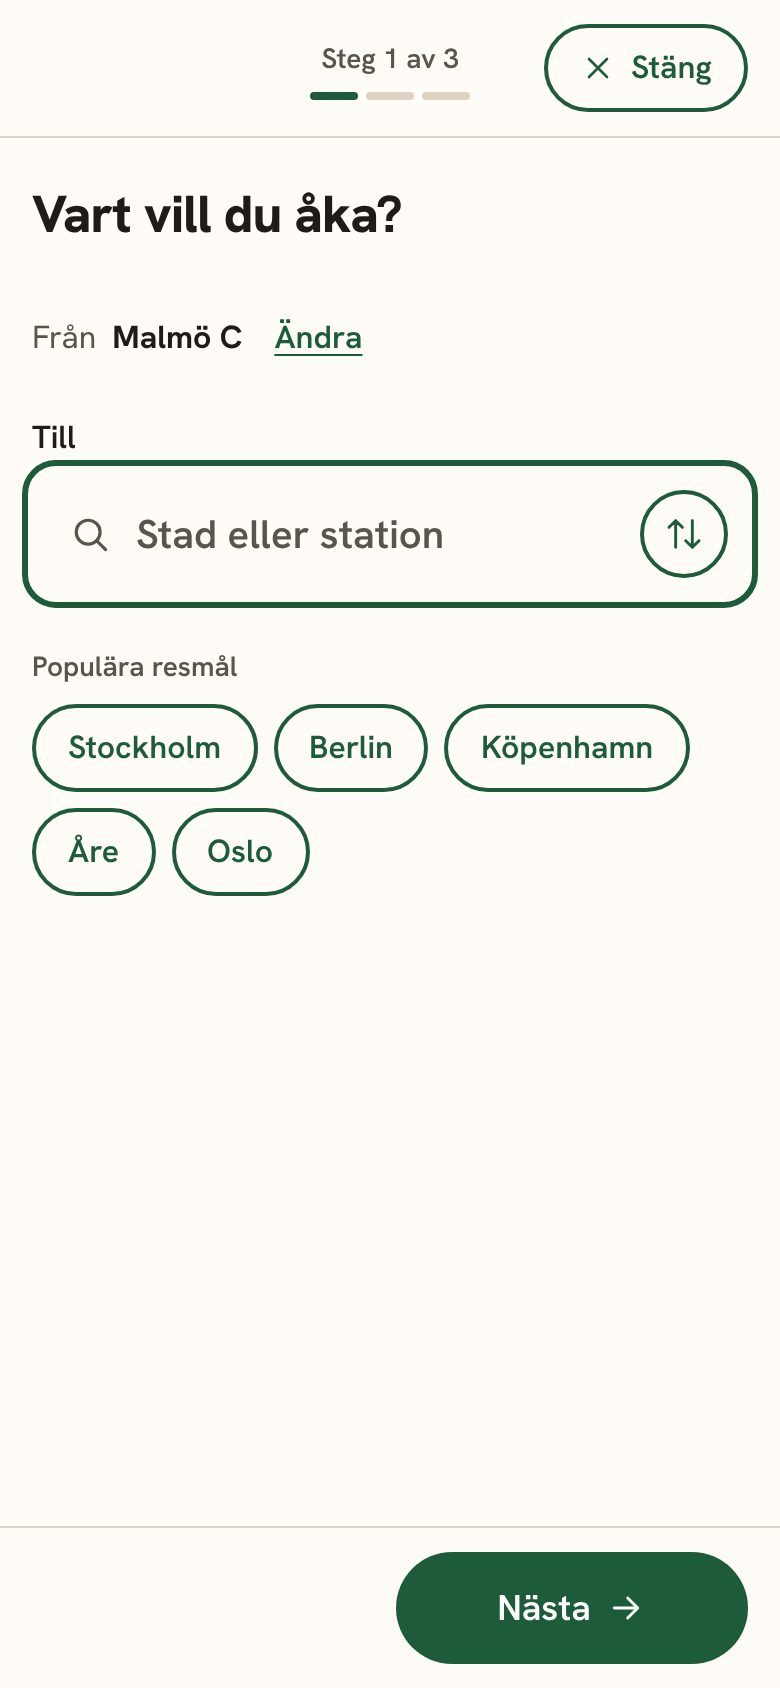
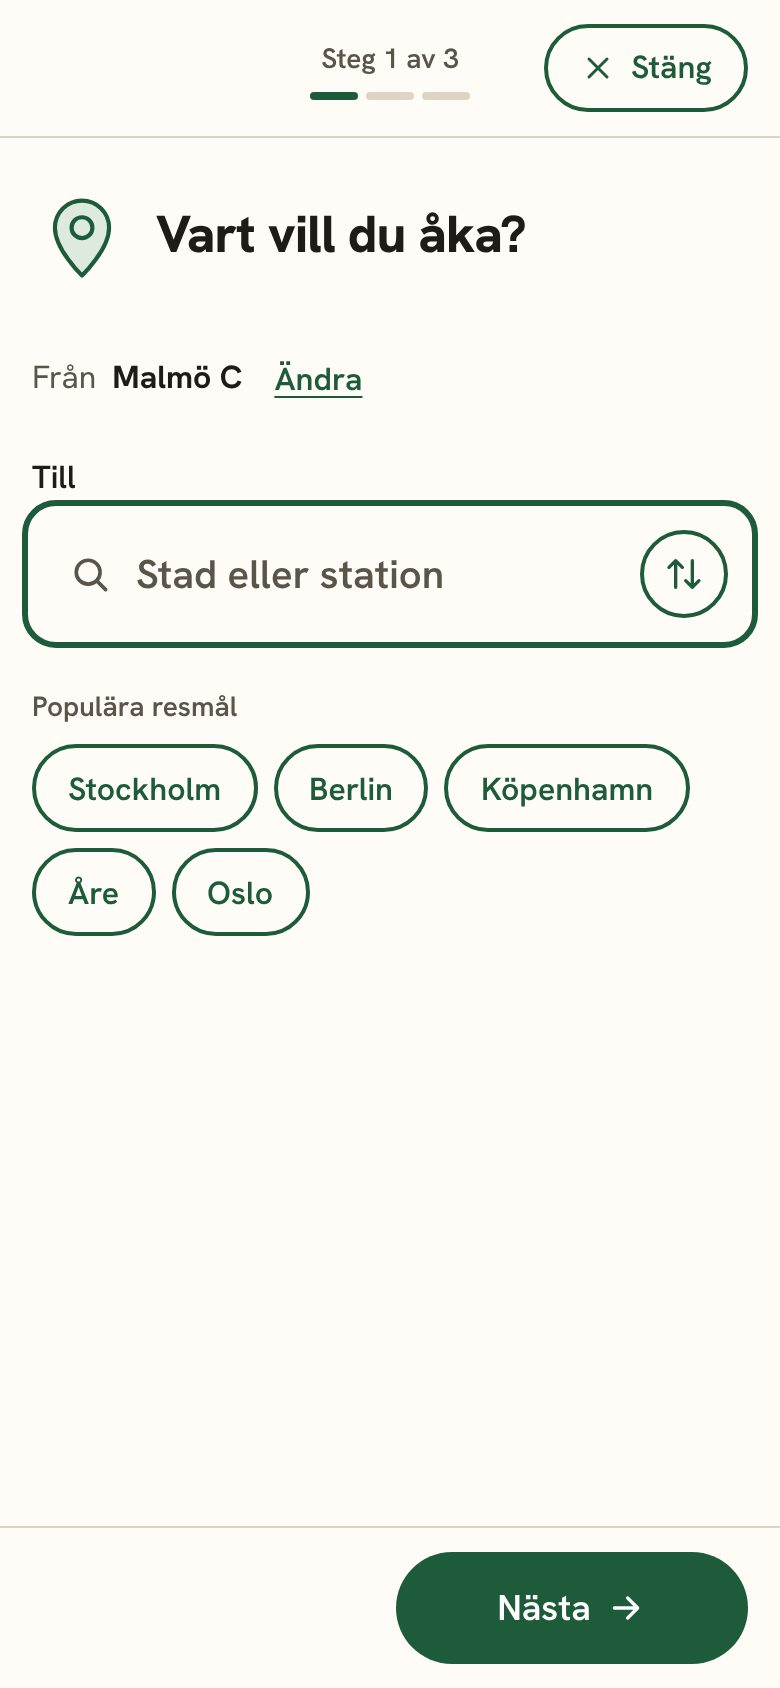
Snälltåget-konceptet: samma symbolstil på hela sidan
Trafikraden, avgångstavlan (måne för nattåg), Res billigare, bokningens
steg (plats, kalender, resenärer), vuxna och barn samt bockarna har nu
samma tvåfärgade symboler som Inför resan. Gränssnittsikoner får 2 px
linje. Agenten har regeln för symbolstilen.

Claude-Session: https://claude.ai/code/session_013ZhM72pgn3sRt9xC7H7Nq2

Changed region(s): [[0.0308, 0.0924, 0.9846, 0.5545]]

diff --git a/koncept/snalltaget/index.html b/koncept/snalltaget/index.html
@@ -38,7 +38,7 @@
        Planerat banarbete hämtat från snalltaget.se/trafikinformation 23 nov 2026. -->
   <aside class="traffic" id="trafikinfo" aria-label="Trafikinformation">
     <div class="container traffic__inner">
-      <svg class="icon traffic__icon" aria-hidden="true" viewBox="0 0 24 24"><path d="M12 3 2 20h20L12 3z"/><path d="M12 10v4M12 17v.01"/></svg>
+      <svg class="sym traffic__icon" aria-hidden="true" viewBox="0 0 48 48" fill="none" stroke-width="2" stroke-linecap="round" stroke-linejoin="round"><path class="f" d="M24 7l19 33H5z"/><path d="M24 19v9"/><circle class="d" cx="24" cy="33.5" r="2"/></svg>
       <p class="traffic__text">
         <strong>5 december:</strong> tåg 3943 går via västkusten på grund av banarbete.
         <a href="https://www.snalltaget.se/trafikinformation">All trafikinformation</a>
@@ -155,35 +155,35 @@
             <tr>
               <td class="board__time"><time>15.25</time></td>
               <td class="board__route"><span class="board__to">Östersund C</span><span class="board__from">från Malmö C, framme 06.05</span></td>
-              <td class="board__type"><span class="board__badge">Nattåg</span></td>
+              <td class="board__type"><span class="board__badge"><svg class="sym board__sym" aria-hidden="true" viewBox="0 0 48 48" fill="none" stroke-width="2" stroke-linecap="round" stroke-linejoin="round"><path class="f" d="M29 7a17 17 0 1 0 12 27A15 15 0 0 1 29 7z"/><path d="M38 9v5M35.5 11.5h5"/></svg>Nattåg</span></td>
               <td class="board__days">Från 16 dec<span class="board__note">Tåg 3902. Avgångsdagar varierar.</span></td>
               <td class="board__action"><a class="board__book" href="#boka" data-open-booking data-from="Malmö C" data-to="Östersund C">Boka<span class="sr-only"> Malmö C till Östersund C 15.25</span></a></td>
             </tr>
             <tr>
               <td class="board__time"><time>16.25</time></td>
               <td class="board__route"><span class="board__to">Berlin Hbf</span><span class="board__from">från Stockholm C, framme 07.51</span></td>
-              <td class="board__type"><span class="board__badge">Nattåg</span></td>
+              <td class="board__type"><span class="board__badge"><svg class="sym board__sym" aria-hidden="true" viewBox="0 0 48 48" fill="none" stroke-width="2" stroke-linecap="round" stroke-linejoin="round"><path class="f" d="M29 7a17 17 0 1 0 12 27A15 15 0 0 1 29 7z"/><path d="M38 9v5M35.5 11.5h5"/></svg>Nattåg</span></td>
               <td class="board__days">Ons–fre och sön<span class="board__note">Till 11 dec, sedan fler datum i december.</span></td>
               <td class="board__action"><a class="board__book" href="#boka" data-open-booking data-from="Stockholm C" data-to="Berlin Hbf">Boka<span class="sr-only"> Stockholm C till Berlin Hbf 16.25</span></a></td>
             </tr>
             <tr>
               <td class="board__time"><time>16.35</time></td>
               <td class="board__route"><span class="board__to">Storlien</span><span class="board__from">från Malmö C, framme 08.55</span></td>
-              <td class="board__type"><span class="board__badge">Nattåg</span></td>
+              <td class="board__type"><span class="board__badge"><svg class="sym board__sym" aria-hidden="true" viewBox="0 0 48 48" fill="none" stroke-width="2" stroke-linecap="round" stroke-linejoin="round"><path class="f" d="M29 7a17 17 0 1 0 12 27A15 15 0 0 1 29 7z"/><path d="M38 9v5M35.5 11.5h5"/></svg>Nattåg</span></td>
               <td class="board__days">Från 16 dec<span class="board__note">Tåg 3900. Stannar i Östersund, Åre och Duved.</span></td>
               <td class="board__action"><a class="board__book" href="#boka" data-open-booking data-from="Malmö C" data-to="Storlien">Boka<span class="sr-only"> Malmö C till Storlien 16.35</span></a></td>
             </tr>
             <tr>
               <td class="board__time"><time>20.52</time></td>
               <td class="board__route"><span class="board__to">Stockholm C</span><span class="board__from">från Berlin Hbf, framme 13.17</span></td>
-              <td class="board__type"><span class="board__badge">Nattåg</span></td>
+              <td class="board__type"><span class="board__badge"><svg class="sym board__sym" aria-hidden="true" viewBox="0 0 48 48" fill="none" stroke-width="2" stroke-linecap="round" stroke-linejoin="round"><path class="f" d="M29 7a17 17 0 1 0 12 27A15 15 0 0 1 29 7z"/><path d="M38 9v5M35.5 11.5h5"/></svg>Nattåg</span></td>
               <td class="board__days">Mån, tor, fre och sön<span class="board__note">Till 11 dec, sedan fler datum i december.</span></td>
               <td class="board__action"><a class="board__book" href="#boka" data-open-booking data-from="Berlin Hbf" data-to="Stockholm C">Boka<span class="sr-only"> Berlin Hbf till Stockholm C 20.52</span></a></td>
             </tr>
             <tr>
               <td class="board__time"><time>21.55</time></td>
               <td class="board__route"><span class="board__to">Berlin Hbf</span><span class="board__from">från Malmö C, framme 07.51</span></td>
-              <td class="board__type"><span class="board__badge">Nattåg</span></td>
+              <td class="board__type"><span class="board__badge"><svg class="sym board__sym" aria-hidden="true" viewBox="0 0 48 48" fill="none" stroke-width="2" stroke-linecap="round" stroke-linejoin="round"><path class="f" d="M29 7a17 17 0 1 0 12 27A15 15 0 0 1 29 7z"/><path d="M38 9v5M35.5 11.5h5"/></svg>Nattåg</span></td>
               <td class="board__days">Ons–fre och sön<span class="board__note">Via Hamburg Hbf 05.05.</span></td>
               <td class="board__action"><a class="board__book" href="#boka" data-open-booking data-from="Malmö C" data-to="Berlin Hbf">Boka<span class="sr-only"> Malmö C till Berlin Hbf 21.55</span></a></td>
             </tr>
@@ -275,6 +275,7 @@
               <span class="deal__label">Upp till 80 %</span>
             </div>
             <div class="deal__body">
+              <svg class="sym deal__sym" aria-hidden="true" viewBox="0 0 48 48" fill="none" stroke-width="2" stroke-linecap="round" stroke-linejoin="round"><circle class="f" cx="24" cy="21" r="5.5"/><path class="f" d="M15 41v-2a9 9 0 0 1 18 0v2z"/></svg>
               <h3 class="deal__title"><a class="deal__link" href="https://www.snalltaget.se/komfortnivaer-prisklasser">Barn reser billigare</a></h3>
               <p>Barn under 16 år som reser med en vuxen, senior, ungdom eller student.</p>
             </div>
@@ -285,6 +286,7 @@
               <span class="deal__label">Specialpris</span>
             </div>
             <div class="deal__body">
+              <svg class="sym deal__sym" aria-hidden="true" viewBox="0 0 48 48" fill="none" stroke-width="2" stroke-linecap="round" stroke-linejoin="round"><path class="f" d="M8 24V10a2 2 0 0 1 2-2h14l16 16-16 16z"/><circle class="d" cx="16" cy="16" r="2.6"/></svg>
               <h3 class="deal__title"><a class="deal__link" href="https://www.snalltaget.se/nattag-till-berlin">Nattåg Malmö – Berlin</a></h3>
               <p>Sittplats, 2 nov – 17 dec. Biljetten går att boka om.</p>
               <p class="deal__price">fr. 399 kr</p>
@@ -296,6 +298,7 @@
               <span class="deal__label">Specialpris</span>
             </div>
             <div class="deal__body">
+              <svg class="sym deal__sym" aria-hidden="true" viewBox="0 0 48 48" fill="none" stroke-width="2" stroke-linecap="round" stroke-linejoin="round"><path d="M5 38V12M5 31h38v7"/><path class="f" d="M22 21h15a6 6 0 0 1 6 6v4H22z"/><circle class="f" cx="13.5" cy="25.5" r="4.5"/></svg>
               <h3 class="deal__title"><a class="deal__link" href="https://www.snalltaget.se/nattag-till-berlin">Egen kupé för två</a></h3>
               <p>Malmö – Berlin, 2 nov – 17 dec. Hela kupén för er.</p>
               <p class="deal__price">fr. 1 499 kr</p>
@@ -369,7 +372,7 @@
       <div class="bk__body">
         <!-- Steg 1: vart -->
         <section class="bk__step" data-step="1" aria-labelledby="steg1-rubrik">
-          <h2 class="bk__title" id="steg1-rubrik" tabindex="-1">Vart vill du åka?</h2>
+          <div class="bk__head"><svg class="sym bk__sym" aria-hidden="true" viewBox="0 0 48 48" fill="none" stroke-width="2" stroke-linecap="round" stroke-linejoin="round"><path class="f" d="M24 43s13-12.5 13-23a13 13 0 0 0-26 0c0 10.5 13 23 13 23z"/><circle cx="24" cy="20" r="5"/></svg><h2 class="bk__title" id="steg1-rubrik" tabindex="-1">Vart vill du åka?</h2></div>
 
           <div class="from" id="from-row">
             <span class="from__label">Från</span>
@@ -412,7 +415,7 @@
 
         <!-- Steg 2: när -->
         <section class="bk__step" data-step="2" aria-labelledby="steg2-rubrik" hidden>
-          <h2 class="bk__title" id="steg2-rubrik" tabindex="-1">När vill du åka?</h2>
+          <div class="bk__head"><svg class="sym bk__sym" aria-hidden="true" viewBox="0 0 48 48" fill="none" stroke-width="2" stroke-linecap="round" stroke-linejoin="round"><rect class="f" x="7" y="10" width="34" height="31" rx="5"/><path d="M7 18h34M16 6v7M32 6v7"/><circle class="d" cx="16" cy="26" r="1.9"/><circle class="d" cx="24" cy="26" r="1.9"/><circle class="d" cx="32" cy="26" r="1.9"/><circle class="d" cx="16" cy="33" r="1.9"/><circle class="d" cx="24" cy="33" r="1.9"/></svg><h2 class="bk__title" id="steg2-rubrik" tabindex="-1">När vill du åka?</h2></div>
           <fieldset class="datepick">
             <legend class="sr-only">Utresa</legend>
             <div class="pills pills--dates" id="date-pills"></div>
@@ -436,10 +439,10 @@
 
         <!-- Steg 3: hur många -->
         <section class="bk__step" data-step="3" aria-labelledby="steg3-rubrik" hidden>
-          <h2 class="bk__title" id="steg3-rubrik" tabindex="-1">Hur många reser?</h2>
+          <div class="bk__head"><svg class="sym bk__sym" aria-hidden="true" viewBox="0 0 48 48" fill="none" stroke-width="2" stroke-linecap="round" stroke-linejoin="round"><circle class="f" cx="32" cy="15" r="5"/><path d="M27 26.5a9 9 0 0 1 14 7.5v3"/><circle class="f" cx="18" cy="17" r="6.5"/><path class="f" d="M6 41v-3a12 12 0 0 1 24 0v3z"/></svg><h2 class="bk__title" id="steg3-rubrik" tabindex="-1">Hur många reser?</h2></div>
           <div class="travellers">
             <div class="stepper">
-              <span class="stepper__label" id="vuxna-etikett">Vuxna <span class="stepper__hint">16 år och äldre</span></span>
+              <svg class="sym stepper__sym" aria-hidden="true" viewBox="0 0 48 48" fill="none" stroke-width="2" stroke-linecap="round" stroke-linejoin="round"><circle class="f" cx="24" cy="15" r="7"/><path class="f" d="M10 41v-3a14 14 0 0 1 28 0v3z"/></svg><span class="stepper__label" id="vuxna-etikett">Vuxna <span class="stepper__hint">16 år och äldre</span></span>
               <div class="stepper__controls">
                 <button type="button" class="stepper__btn" data-step="-1" data-target="vuxna" aria-label="En vuxen färre">−</button>
                 <output id="vuxna" class="stepper__value" aria-labelledby="vuxna-etikett" aria-live="polite" data-min="1" data-max="9">1</output>
@@ -447,7 +450,7 @@
               </div>
             </div>
             <div class="stepper">
-              <span class="stepper__label" id="barn-etikett">Barn <span class="stepper__hint">0–15 år, upp till 80 % rabatt</span></span>
+              <svg class="sym stepper__sym" aria-hidden="true" viewBox="0 0 48 48" fill="none" stroke-width="2" stroke-linecap="round" stroke-linejoin="round"><circle class="f" cx="24" cy="21" r="5.5"/><path class="f" d="M15 41v-2a9 9 0 0 1 18 0v2z"/></svg><span class="stepper__label" id="barn-etikett">Barn <span class="stepper__hint">0–15 år, upp till 80 % rabatt</span></span>
               <div class="stepper__controls">
                 <button type="button" class="stepper__btn" data-step="-1" data-target="barn" aria-label="Ett barn färre">−</button>
                 <output id="barn" class="stepper__value" aria-labelledby="barn-etikett" aria-live="polite" data-min="0" data-max="8">0</output>
@@ -460,8 +463,8 @@
 
           <!-- Tillit nära handlingen. Verifierat mot snalltaget.se 23 nov 2026. -->
           <ul class="trust">
-            <li><svg class="icon" aria-hidden="true" viewBox="0 0 24 24"><path d="m5 12 5 5 9-10"/></svg>Ombokningsbar fram till 24 timmar före avresa, avgift 50 kr.</li>
-            <li><svg class="icon" aria-hidden="true" viewBox="0 0 24 24"><path d="m5 12 5 5 9-10"/></svg>Sms om tåget blir mer än 30 minuter försenat.</li>
+            <li><svg class="sym trust__sym" aria-hidden="true" viewBox="0 0 48 48" fill="none" stroke-width="2" stroke-linecap="round" stroke-linejoin="round"><circle class="f" cx="24" cy="24" r="18"/><path d="M16 24.5l5.5 5.5L32.5 19"/></svg>Ombokningsbar fram till 24 timmar före avresa, avgift 50 kr.</li>
+            <li><svg class="sym trust__sym" aria-hidden="true" viewBox="0 0 48 48" fill="none" stroke-width="2" stroke-linecap="round" stroke-linejoin="round"><circle class="f" cx="24" cy="24" r="18"/><path d="M16 24.5l5.5 5.5L32.5 19"/></svg>Sms om tåget blir mer än 30 minuter försenat.</li>
           </ul>
         </section>
       </div>

diff --git a/koncept/snalltaget/style.css b/koncept/snalltaget/style.css
@@ -1019,3 +1019,21 @@ body:has(.bk[open]) { overflow: hidden; }
 }
 
 [hidden] { display: none !important; }
+
+/* ---------- Symboler: samma stil överallt (grön linje 2 px, ljusgrön fyllning) ---------- */
+.sym { flex: none; stroke: var(--c-action); }
+.sym .f { fill: var(--c-promo); }
+.sym .d { fill: var(--c-action); stroke: none; }
+.icon { stroke-width: 2; }
+.traffic__icon.sym { width: 30px; height: 30px; stroke: var(--c-text); }
+.traffic__icon.sym .f { fill: #fffaf0; }
+.traffic__icon.sym .d { fill: var(--c-text); }
+.board__badge { display: inline-flex; align-items: center; gap: 6px; }
+.board__sym { width: 24px; height: 24px; }
+.deal__sym { width: 52px; height: 52px; margin-bottom: var(--s-4); }
+.bk__head { display: flex; align-items: center; gap: var(--s-12); }
+.bk__head .bk__title { margin: 0; }
+.bk__sym { width: 50px; height: 50px; }
+.stepper__sym { width: 46px; height: 46px; }
+.trust__sym { width: 24px; height: 24px; flex: none; margin-top: -1px; }
+.stepper .stepper__label { flex: 1; min-width: 0; }

diff --git a/.claude/agents/ux-designer.md b/.claude/agents/ux-designer.md
@@ -120,6 +120,7 @@ Saknas ett system utgår du från detta:
 - **Skuggor:** nästan inga, och aldrig på knappar. Avgränsa med yta och luft, och använd 1 px linje där det behövs. Skugga bara på element som faktiskt svävar (menyer, dialoger).
 - **Bilder:** riktiga foton i fasta proportioner (1:1, 4:3, 3:2, 16:9), beskurna med avsikt. Text på foto kräver mörkläggning eller en lugn yta i bilden.
 - **Ikoner:** en enda linjeikonserie i samma tjocklek, alltid med etikett i navigering.
+- **Symboler (beställarens val):** egna symboler i 48-rutnät med grön linje (2 px, rundade ändar) och ljusgrön fyllning (`#DFEADF`), samma stil överallt: snabbåtgärder, avgångstavla, erbjudanden, bokningens steg, resenärsväljare och bockar. Små gränssnittsikoner (pilar, sök, stäng, meny) är rena linjer i 2 px. Gul fyllning i symboler är underkänt.
 
 ## Säljande mönster du behärskar
 
